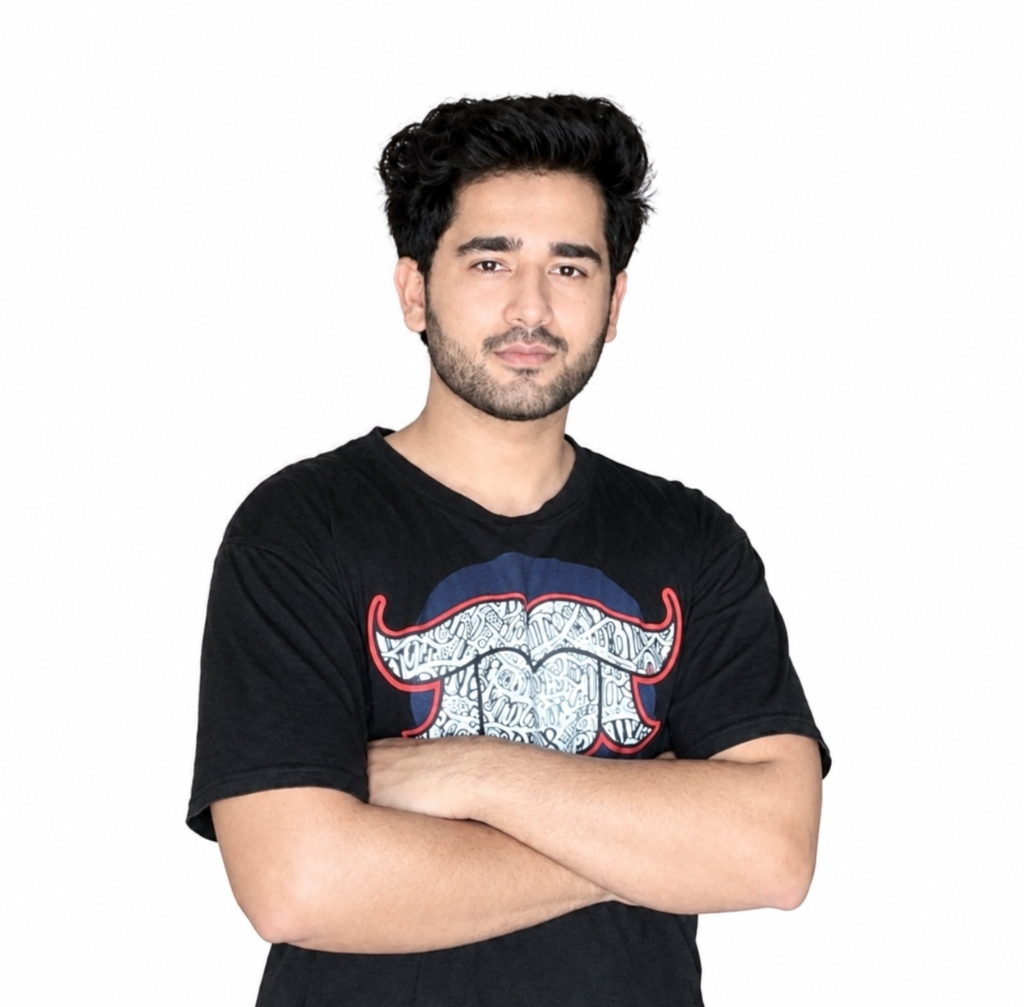
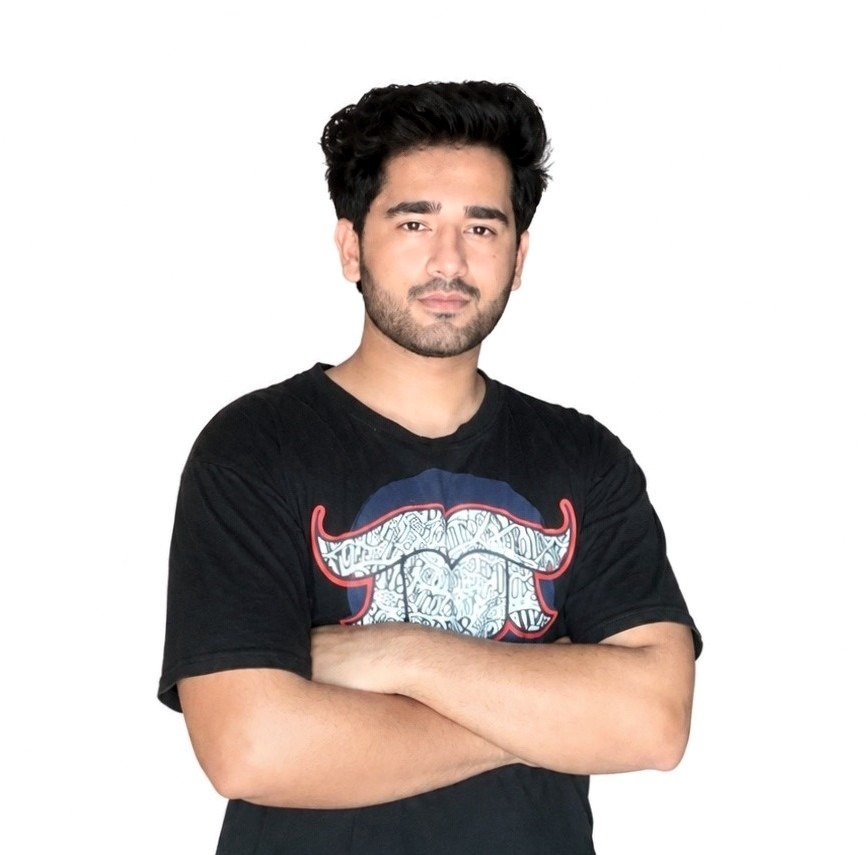
fix(about): replace about profile photo with updated cropped version

diff --git a/index.html b/index.html
@@ -251,7 +251,7 @@
   <div class="container">
     <div class="about-grid">
       <div class="about-photo">
-        <img src="assets/images/about-profile.jpg?v=3" alt="Yahya - Financial Analyst" id="profileImg">
+        <img src="assets/images/about-profile.jpg?v=4" alt="Yahya - Financial Analyst" id="profileImg">
       </div>
       <div class="about-text">
         <span class="eyebrow">About</span>
